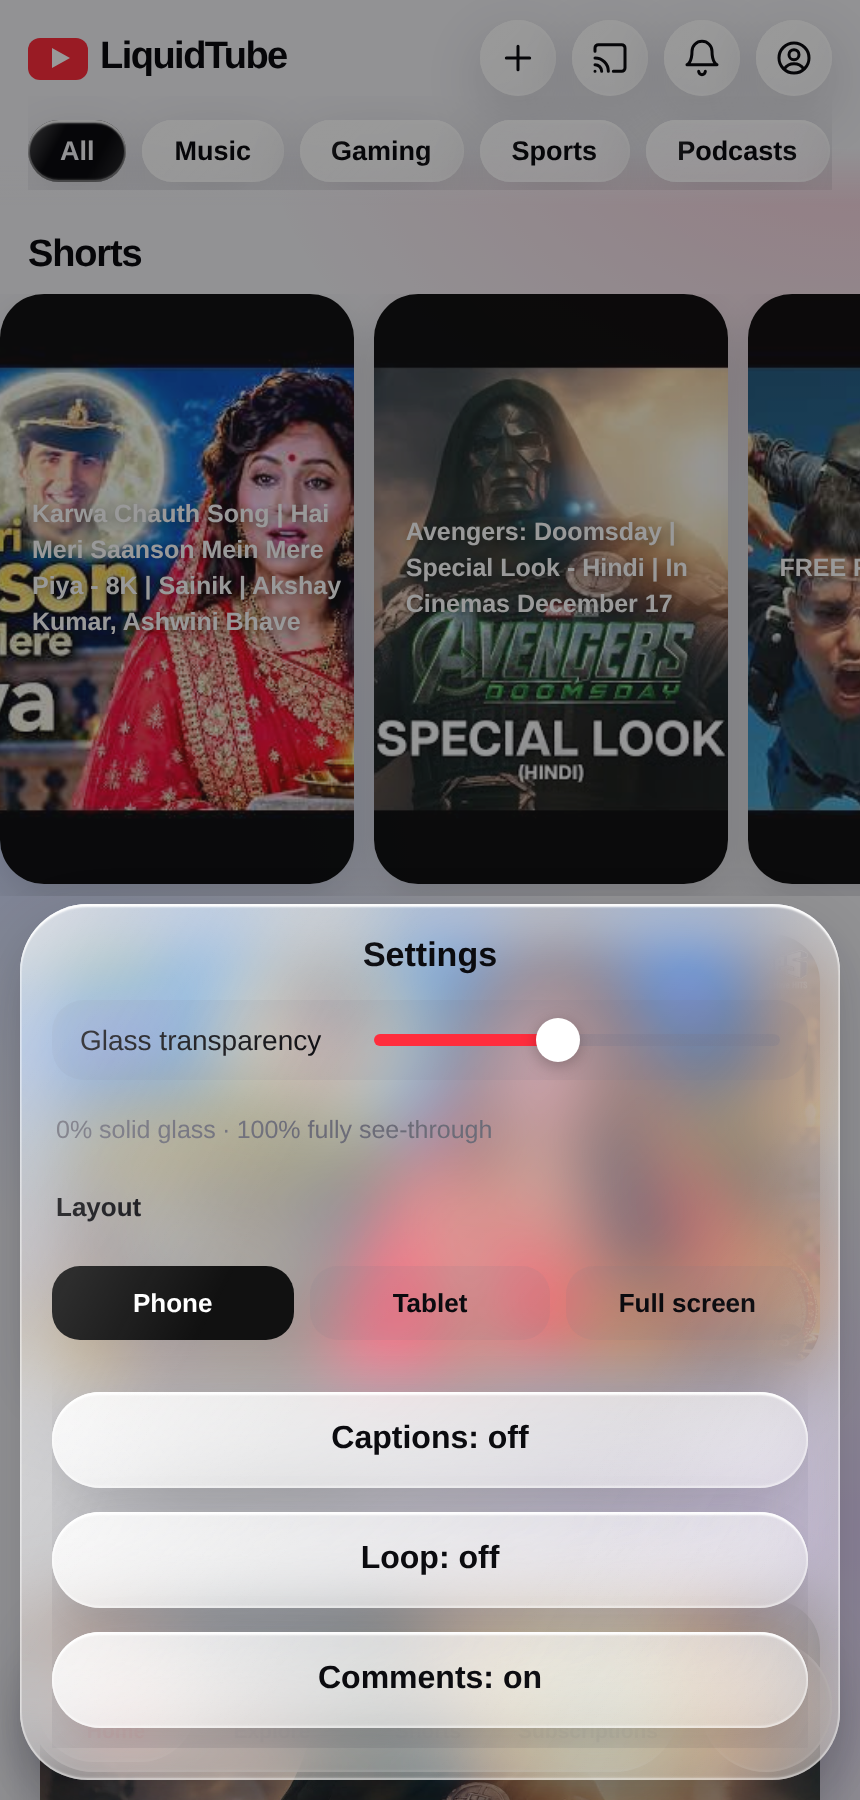
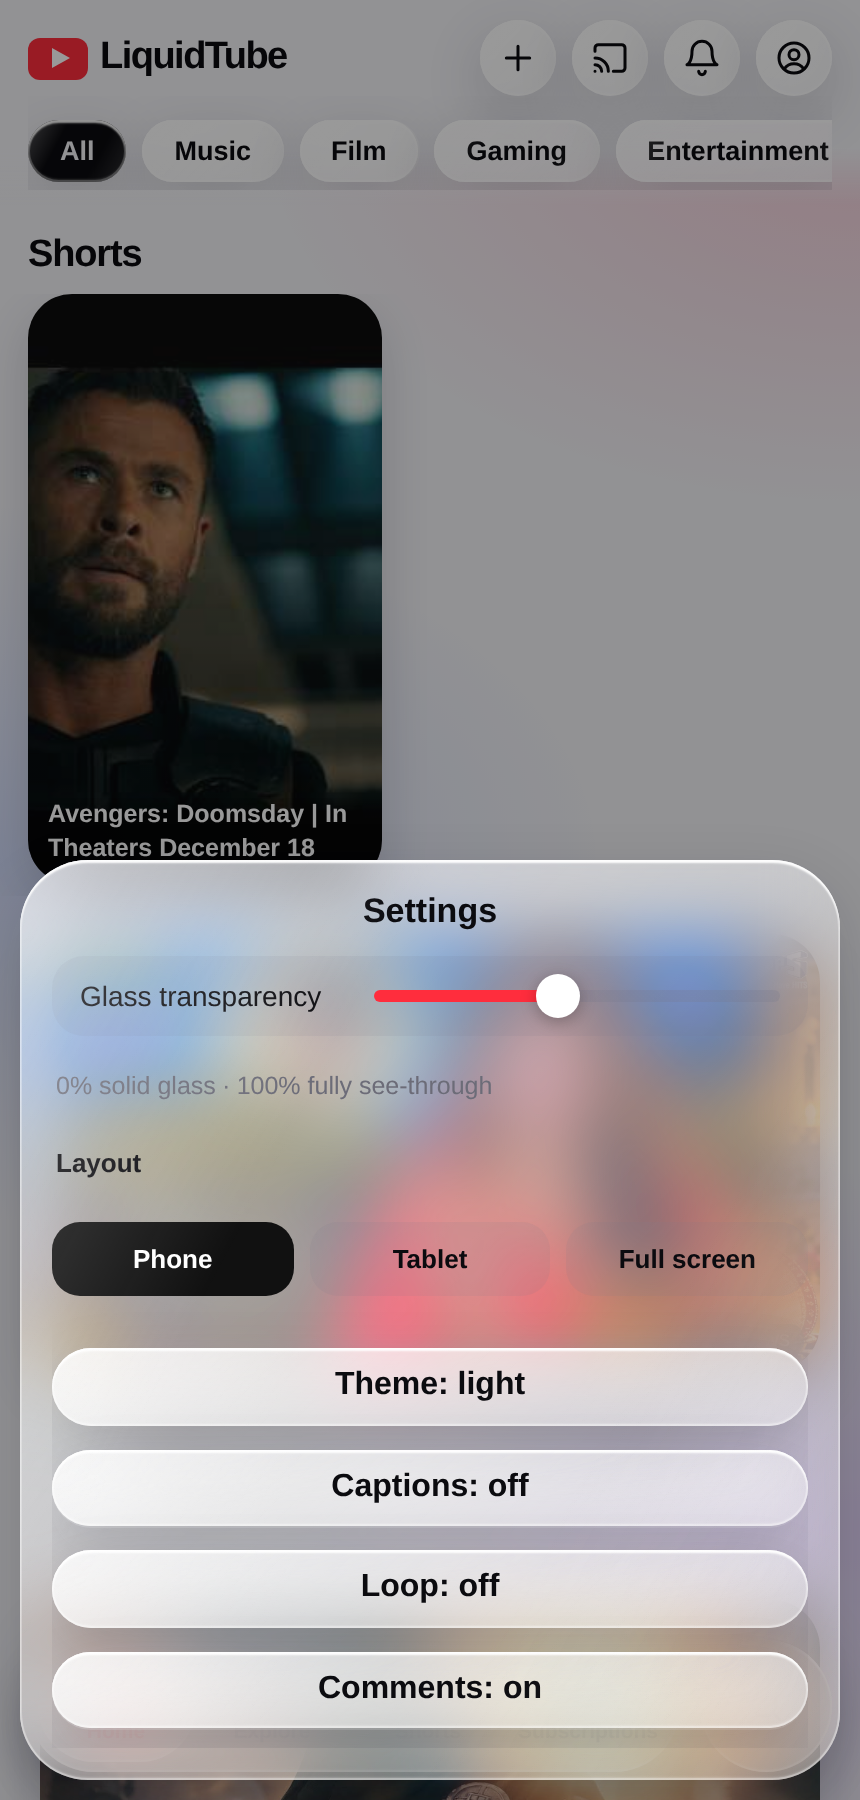
LiquidTube 6.2 — settings reachable, real Shorts, working chips
- Avatar button now opens the You sheet (History / Liked / Watch later / Settings /
  Clear history); the theme toggle moved into Settings. Settings were unreachable
  before because the avatar still ran the theme handler.
- Shorts now only show clips <=70s: durations come from videos?part=contentDetails
  and a videoDuration=short search fills the row when needed; the list is cached
  for 12h. Long-form videos no longer appear in Shorts.
- Chips carry the real snippet.categoryId; the row is built from categories that
  actually exist in the feed, so no dead chips and no empty filters.
- Fixed a 'Cannot access cat before initialization' crash while wiring the chips.
- APK rebuilt as versionCode 23 / versionName 6.2.

diff --git a/app/assets/index.html b/app/assets/index.html
@@ -155,7 +155,7 @@ html[data-layout=full] .app{max-width:100%;height:100%;margin:0;border-radius:0;
 <div class="app" id="app">
 <section class="page" id="p-home">
  <div class="top"><div class="row"><div class="logo"><i></i>LiquidTube</div>
-  <div class="ic"><button class="glass" data-ic="plus" data-do="plus" aria-label="Create"></button><button class="glass" data-ic="cast" data-do="cast" aria-label="Cast"></button><button class="glass" data-ic="bell" data-do="bell" aria-label="Notifications"></button><button class="glass" id="theme" data-ic="user" aria-label="Switch theme"></button></div></div>
+  <div class="ic"><button class="glass" data-ic="plus" data-do="plus" aria-label="Create"></button><button class="glass" data-ic="cast" data-do="cast" aria-label="Cast"></button><button class="glass" data-ic="bell" data-do="bell" aria-label="Notifications"></button><button class="glass" id="you" data-ic="user" data-do="you" aria-label="You"></button></div></div>
   <div class="chips" id="chips"></div></div>
  <h2>Shorts</h2><div class="srow" id="srow"></div>
  <div id="feed" style="padding-top:12px;transition:opacity .2s"></div>
@@ -262,12 +262,24 @@ async function loadTrending(){
   try{
     const j=await yt('videos',{part:'snippet,statistics',chart:'mostPopular',regionCode:'IN',maxResults:24});
     const list=(j.items||[]).map(it=>vObj(it.id,{t:dec(it.snippet.title),c:dec(it.snippet.channelTitle),ch:it.snippet.channelId,
-      views:it.statistics&&it.statistics.viewCount,pub:it.snippet.publishedAt,cat:'All'}));
+      views:it.statistics&&it.statistics.viewCount,pub:it.snippet.publishedAt,
+      cat:CATMAP[+it.snippet.categoryId]||'All'}));
     await loadChannels(list.map(v=>v.ch));
     FEED.trending=list;return list;
   }catch(e){FEED.error=e.message||'offline';FEED.trending=[];return []}
 }
 const feed=()=>FEED.trending||[];
+const iso2sec=d=>{const m=/PT(?:(\d+)H)?(?:(\d+)M)?(?:(\d+)S)?/.exec(d||'');return m?(+m[1]||0)*3600+(+m[2]||0)*60+(+m[3]||0):0};
+async function loadDurations(list){
+  const ids=list.filter(v=>v.dur==null).map(v=>v.id).slice(0,50);
+  if(!ids.length)return;
+  try{
+    const j=await yt('videos',{part:'contentDetails',id:ids.join(',')});
+    (j.items||[]).forEach(it=>{if(V[it.id])V[it.id].dur=iso2sec(it.contentDetails&&it.contentDetails.duration)});
+  }catch(e){}
+}
+const SHORT_MAX=70;
+const shortsOf=()=>(FEED.shorts&&FEED.shorts.length?FEED.shorts:feed().filter(v=>v.dur&&v.dur<=SHORT_MAX));
 
 /* ---------- card + list renderers (reference markup) ---------- */
 const cardOf=v=>'<button class="card" data-v="'+esc(v.id)+'"><div class="thumb">'+thumbImg(v.id)+(v.views?'<u>'+num(v.views)+' views</u>':'')+'</div>'+
@@ -277,23 +289,59 @@ const meta=v=>[v.views?num(v.views)+' views':'',v.pub?ago(v.pub):''].filter(Bool
 const list=(arr,el)=>{el.innerHTML=arr.length?arr.map(cardOf).join(''):'<div class="empty">Nothing here yet.</div>'};
 
 /* ---------- chips ---------- */
-const CATS=['All','Music','Gaming','Sports','Podcasts','Live','Calm','AI music'];
-$('chips').innerHTML=CATS.map((c,i)=>'<button class="chip glass'+(i?'':' on')+'">'+c+'</button>').join('');
+const CATMAP={1:'Film',2:'Cars',10:'Music',15:'Animals',17:'Sports',19:'Travel',20:'Gaming',22:'People',23:'Comedy',24:'Entertainment',25:'News',26:'Howto',27:'Education',28:'Science',29:'Nonprofits'};
+let CATS=['All','Music','Gaming','Sports','Entertainment','News','Education'];
 let cat='All';
+function renderChips(){
+  const present=[...new Set(feed().map(v=>v.cat).filter(c=>c&&c!=='All'))];
+  CATS=['All',...present];
+  $('chips').innerHTML=CATS.map((c,i)=>'<button class="chip glass'+(c===cat?' on':'')+'">'+c+'</button>').join('');
+}
+renderChips();
 function chip(n){
   cat=n;
   [...$('chips').querySelectorAll('.chip')].forEach(b=>b.classList.toggle('on',b.textContent===n));
   const f=$('feed');f.style.opacity=0;
-  setTimeout(()=>{list(cat==='All'?feed():feed().filter(v=>(v.cat||'')===cat),f);f.style.opacity=1},140);
+  setTimeout(()=>{
+    const items=cat==='All'?feed():feed().filter(v=>v.cat===cat);
+    list(items,f);
+    if(!items.length)f.innerHTML='<div class="empty">Nothing in '+esc(cat)+' right now.</div>';
+    f.style.opacity=1;
+  },140);
 }
 $('chips').onclick=e=>{const b=e.target.closest('.chip');if(b)chip(b.textContent)};
 
 /* ---------- shorts strip + page ---------- */
-function renderShorts(){
-  const list=feed().slice(0,8);
+async function ensureShorts(){
+  if(FEED.shorts)return FEED.shorts;
+  try{
+    const c=JSON.parse(localStorage.getItem('lt_shorts')||'null');
+    if(c&&c.at&&Date.now()-c.at<12*36e5&&c.items&&c.items.length){
+      c.items.forEach(it=>vObj(it.id,it));
+      FEED.shorts=c.items.map(it=>V[it.id]).filter(Boolean);
+      if(FEED.shorts.length)return FEED.shorts;
+    }
+  }catch(e){}
+  await loadDurations(feed());
+  let list=feed().filter(v=>v.dur&&v.dur<=SHORT_MAX);
+  if(list.length<4){
+    try{
+      const j=await yt('search',{part:'snippet',type:'video',videoDuration:'short',maxResults:12,q:'#shorts'});
+      list=(j.items||[]).filter(it=>it.id&&it.id.videoId).map(it=>vObj(it.id.videoId,
+        {t:dec(it.snippet.title),c:dec(it.snippet.channelTitle),ch:it.snippet.channelId,pub:it.snippet.publishedAt,cat:'Shorts'}));
+      await loadChannels(list.map(v=>v.ch));
+    }catch(e){}
+  }
+  FEED.shorts=list.slice(0,12);
+  try{localStorage.setItem('lt_shorts',JSON.stringify({at:Date.now(),items:FEED.shorts.map(v=>({id:v.id,t:v.t,c:v.c,ch:v.ch,pub:v.pub,dur:v.dur}))}))}catch(e){}
+  return FEED.shorts;
+}
+async function renderShorts(){
+  const list=await ensureShorts();
   $('srow').innerHTML=list.map(v=>'<button class="sc" data-v="'+esc(v.id)+'"><img src="https://i.ytimg.com/vi/'+esc(v.id)+'/hqdefault.jpg" alt=""><b>'+esc(v.t)+'</b></button>').join('');
-  $('p-shorts').innerHTML=list.map(v=>'<div class="sh"><iframe src="https://www.youtube-nocookie.com/embed/'+esc(v.id)+'?playsinline=1&rel=0&modestbranding=1&enablejsapi=1" allow="autoplay; encrypted-media; fullscreen" title="'+esc(v.t)+'"></iframe>'+
-    '<div class="cap"><b>'+esc(v.c)+'</b><p>'+esc(v.t)+'</p></div></div>').join('');
+  $('p-shorts').innerHTML=list.length?list.map(v=>'<div class="sh"><iframe src="https://www.youtube-nocookie.com/embed/'+esc(v.id)+'?playsinline=1&rel=0&modestbranding=1&enablejsapi=1" allow="autoplay; encrypted-media; fullscreen" title="'+esc(v.t)+'"></iframe>'+
+    '<div class="cap"><b>'+esc(v.c)+'</b><p>'+esc(v.t)+'</p></div></div>').join('')
+    :'<div class="empty">No Shorts right now.</div>';
 }
 
 /* ---------- explore (shelves) ---------- */
@@ -416,6 +464,7 @@ function settingsHTML(){
     '<div style="font-size:12.5px;color:var(--mute);margin:-4px 2px 12px">0% solid glass · 100% fully see-through</div>'+
     '<div style="font-size:13px;font-weight:700;margin:0 2px 8px">Layout</div>'+
     '<div class="laychips">'+btn('phone','Phone')+btn('tablet','Tablet')+btn('full','Full screen')+'</div>'+
+    '<button class="opt glass" data-tgl="theme">Theme: '+(document.documentElement.dataset.theme==='dark'?'dark':'light')+'</button>'+
     '<button class="opt glass" data-opt="cc">Captions: '+(S.opt.cc?'on':'off')+'</button>'+
     '<button class="opt glass" data-opt="loop">Loop: '+(S.opt.loop?'on':'off')+'</button>'+
     '<button class="opt glass" data-opt="cmt">Comments: '+(S.opt.cmt?'on':'off')+'</button>';
@@ -427,6 +476,8 @@ $('sheet').addEventListener('input',e=>{
   applyGlass();
 });
 $('sheet').addEventListener('click',e=>{
+  const th=e.target.closest('[data-tgl="theme"]');
+  if(th){toggleTheme();th.textContent='Theme: '+(document.documentElement.dataset.theme==='dark'?'dark':'light');return}
   const b=e.target.closest('[data-lay]');
   if(!b)return;
   S.opt.layout=b.dataset.lay;save();applyLayout();
@@ -495,15 +546,20 @@ document.addEventListener('click',e=>{
   const sh=e.target.closest('[data-shelf]');
   if(sh){openS();qi.value=sh.textContent==='View All'?'':'';return}
   const d=e.target.closest('[data-do]');
-  if(d){const k=d.dataset.do;k==='bell'?sheet('Notifications','<div class="empty">No new notifications.</div>',0):k==='plus'?sheet('Create','<button class="opt glass">Upload a video</button><button class="opt glass">Create a Short</button>',0):toast('Not available on this device')}
+  if(d){const k=d.dataset.do;k==='you'?openLibrary():k==='bell'?sheet('Notifications','<div class="empty">No new notifications.</div>',0):k==='plus'?sheet('Create','<button class="opt glass">Upload a video</button><button class="opt glass">Create a Short</button>',0):toast('Not available on this device')}
 });
 
 /* ---------- theme ---------- */
-$('theme').onclick=()=>{const d=document.documentElement;const dark=d.dataset.theme?d.dataset.theme==='dark':matchMedia('(prefers-color-scheme:dark)').matches;d.dataset.theme=dark?'light':'dark';applyGlass()};
-$('theme').removeAttribute('data-do');
+function toggleTheme(){
+  const d=document.documentElement;
+  const dark=d.dataset.theme?d.dataset.theme==='dark':matchMedia('(prefers-color-scheme:dark)').matches;
+  d.dataset.theme=dark?'light':'dark';
+  applyGlass();
+}
 
 /* ---------- boot ---------- */
 loadTrending().then(()=>{
+  renderChips();
   list(feed(),$('feed'));
   renderShorts();
   renderExplore();
